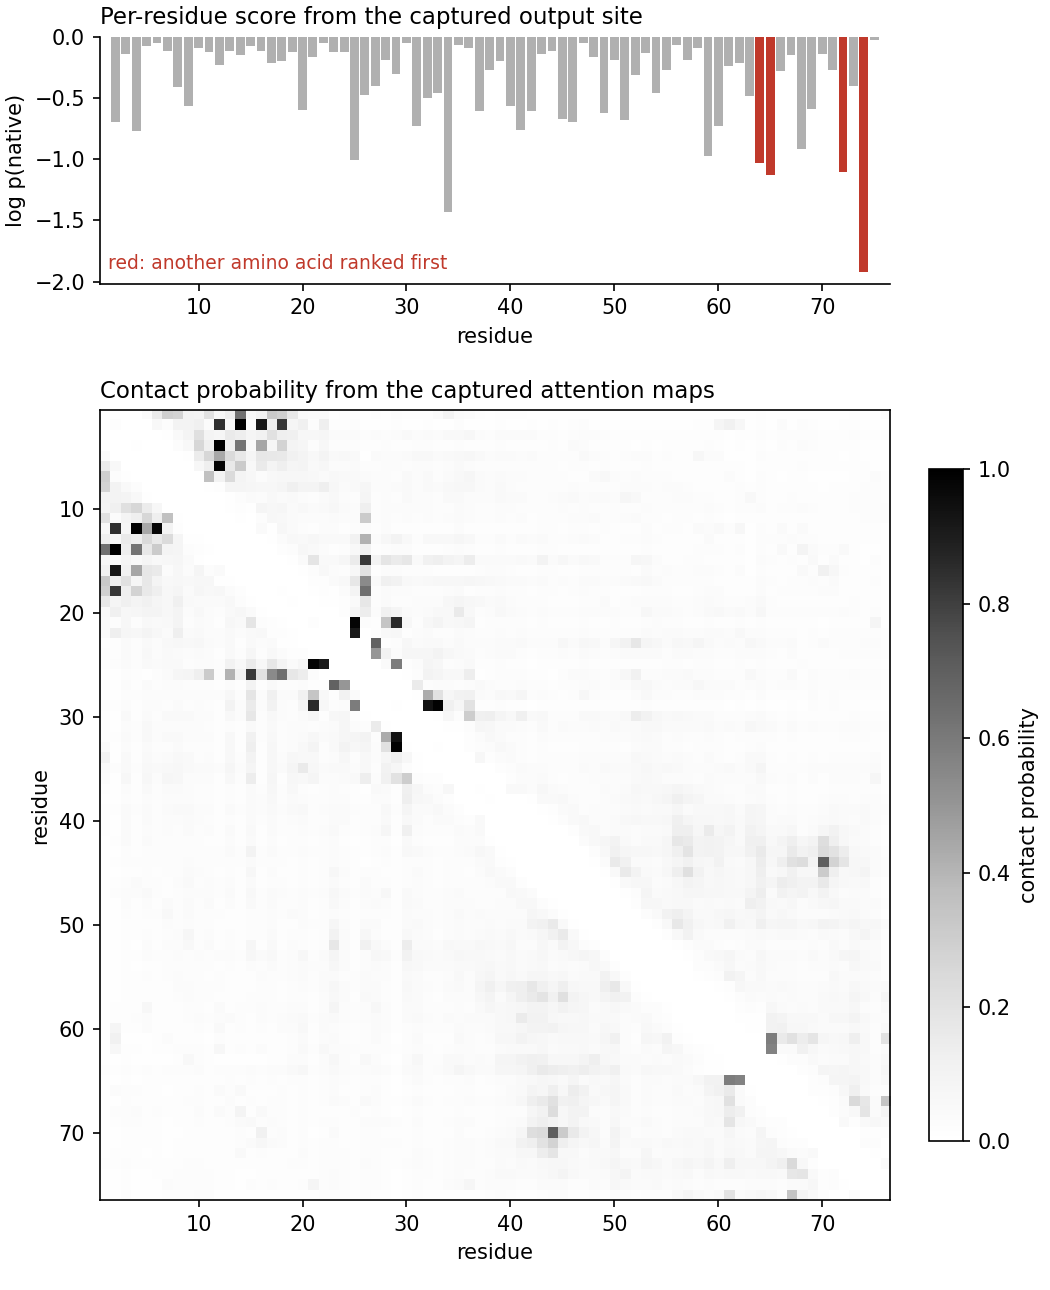
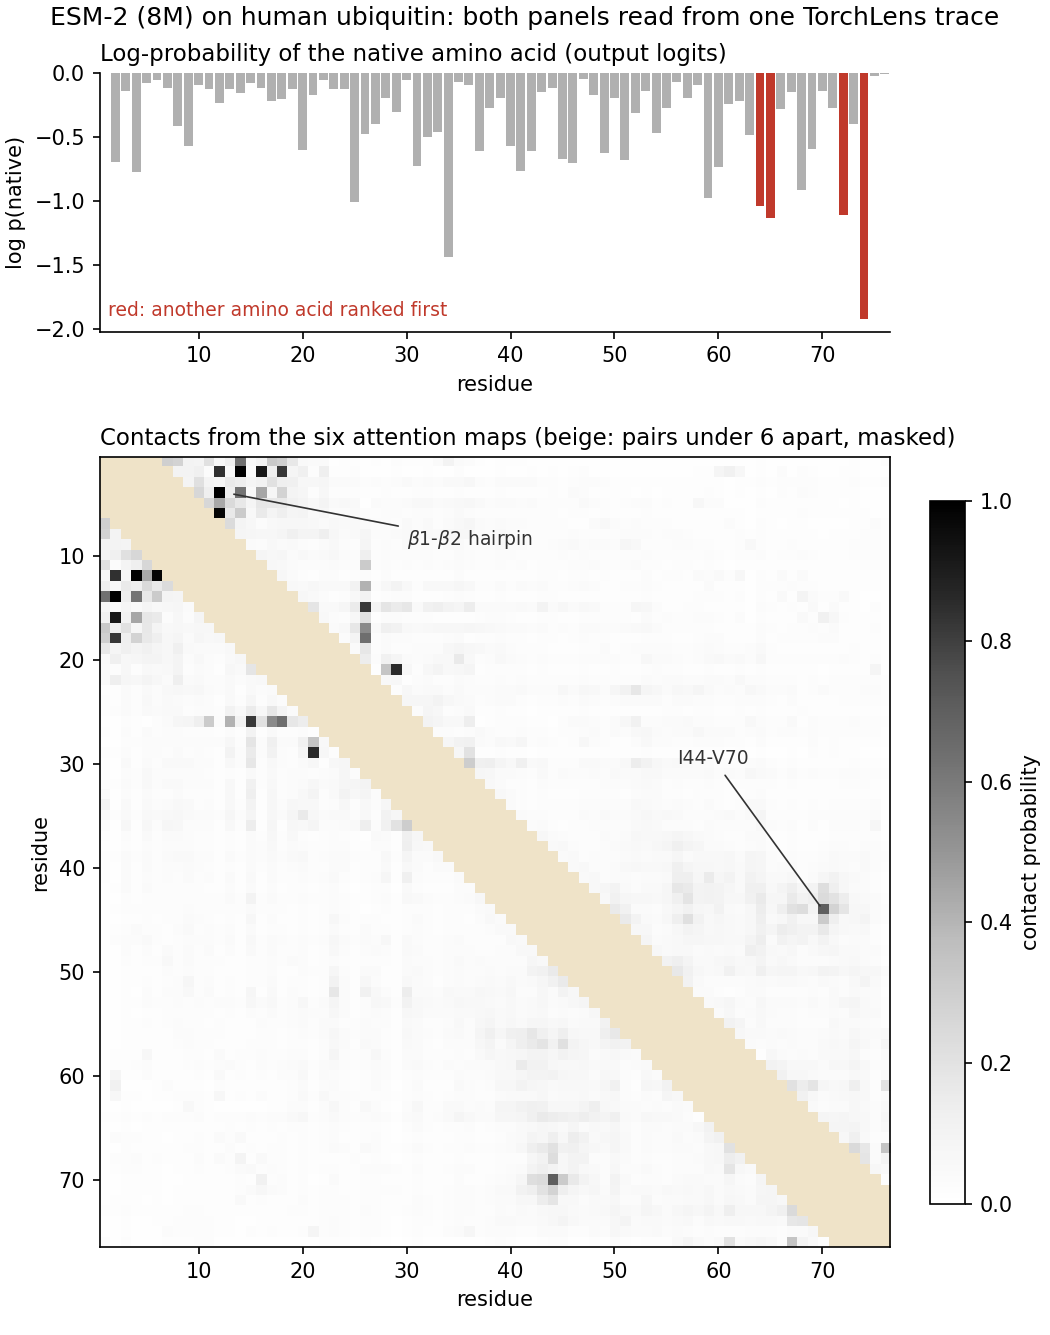
docs: label the ESM-2 figure (model, protein, masked short-range pairs, hairpin and I44-V70)

diff --git a/docs/neuroai/protein_language_model.md b/docs/neuroai/protein_language_model.md
@@ -96,7 +96,8 @@ RESULT = (tuple(contacts.shape), torch.allclose(contacts, reference, atol=1e-6))
 
 The top panel is the per-residue score, with the four positions where the model prefers a
 different amino acid marked in red. The bottom panel is the contact map from the captured
-attention.
+attention. Pairs fewer than six residues apart are masked, as is usual for contact maps,
+since neighbours in the chain are always close.
 
 ```python
 # recipe-test: tool=esm expected=True
@@ -104,41 +105,55 @@ from pathlib import Path
 
 import matplotlib.pyplot as plt
 
+n = len(UBIQUITIN)
 fig, (top, bottom) = plt.subplots(
-    2, 1, figsize=(7, 8.6), gridspec_kw={"height_ratios": [1, 3.4]}, layout="constrained"
+    2, 1, figsize=(7, 8.9), gridspec_kw={"height_ratios": [1, 3.4]}, layout="constrained"
 )
-positions = torch.arange(1, len(UBIQUITIN) + 1)
+fig.suptitle("ESM-2 (8M) on human ubiquitin: both panels read from one TorchLens trace",
+             fontsize=12)
 colors = ["#B0B0B0" if hit else "#c0392b" for hit in recovered.tolist()]
-top.bar(positions, native_logp.detach(), color=colors, width=0.85)
-top.set_xlim(0.5, len(UBIQUITIN) + 0.5)
+top.bar(torch.arange(1, n + 1), native_logp.detach(), color=colors, width=0.85)
+top.set_xlim(0.5, n + 0.5)
 top.set_xlabel("residue")
 top.set_ylabel("log p(native)")
 top.text(0.01, 0.06, "red: another amino acid ranked first", transform=top.transAxes,
          ha="left", color="#c0392b", fontsize=9)
-top.set_title("Per-residue score from the captured output site", loc="left", fontsize=11)
+top.set_title("Log-probability of the native amino acid (output logits)", loc="left",
+              fontsize=11)
 for side in ("top", "right"):
     top.spines[side].set_visible(False)
 
-image = bottom.imshow(
-    contacts, cmap="Greys", vmin=0, vmax=1,
-    extent=(0.5, len(UBIQUITIN) + 0.5, len(UBIQUITIN) + 0.5, 0.5),
-)
+index = torch.arange(n)
+shown = contacts.clone()
+shown[(index[:, None] - index[None, :]).abs() < 6] = float("nan")
+greys = plt.get_cmap("Greys").copy()
+greys.set_bad("#EFE3C8")
+image = bottom.imshow(shown, cmap=greys, vmin=0, vmax=1,
+                      extent=(0.5, n + 0.5, n + 0.5, 0.5))
+for text, cell, where in (
+    (r"$\beta$1-$\beta$2 hairpin", (13, 4), (30, 9)),
+    ("I44-V70", (70, 44), (56, 30)),
+):
+    bottom.annotate(text, xy=cell, xytext=where, fontsize=9, color="#333333",
+                    arrowprops={"arrowstyle": "-", "color": "#333333", "lw": 0.8})
 bottom.set_xlabel("residue")
 bottom.set_ylabel("residue")
-bottom.set_title("Contact probability from the captured attention maps", loc="left", fontsize=11)
+bottom.set_title("Contacts from the six attention maps (beige: pairs under 6 apart, masked)",
+                 loc="left", fontsize=11)
 fig.colorbar(image, ax=bottom, shrink=0.8, label="contact probability")
 fig.savefig("esm2_ubiquitin.png", dpi=150, facecolor="white")
 plt.close(fig)
 RESULT = Path("esm2_ubiquitin.png").stat().st_size > 0
 ```
 
-![Per-residue native log-probability for ubiquitin (four mispredicted residues in red) above
-the predicted contact map](../images/esm2/esm2_ubiquitin.png)
+![ESM-2 on ubiquitin: per-residue native log-probability (four mispredicted residues in red)
+above the predicted contact map with the beta1-beta2 hairpin and the I44-V70 contact
+labelled](../images/esm2/esm2_ubiquitin.png)
 
-The strongest contacts away from the diagonal pair residues 2 to 6 with 12 to 16, the hairpin
-formed by ubiquitin's first two beta strands, and residue 44 with residue 70, its third and
-fifth strands. The block around residues 21 to 33 is short-range contacts inside its alpha
-helix. The model learned these from sequences alone; it never saw a structure.
+The strongest contacts pair residues 2 to 6 with 12 to 16, the hairpin formed by ubiquitin's
+first two beta strands, and isoleucine 44 with valine 70, two residues of the hydrophobic patch
+on ubiquitin's surface that binding partners recognise. The model learned these from sequences
+alone; it never saw a structure.
 
 ## 6. Edit and read again
 
